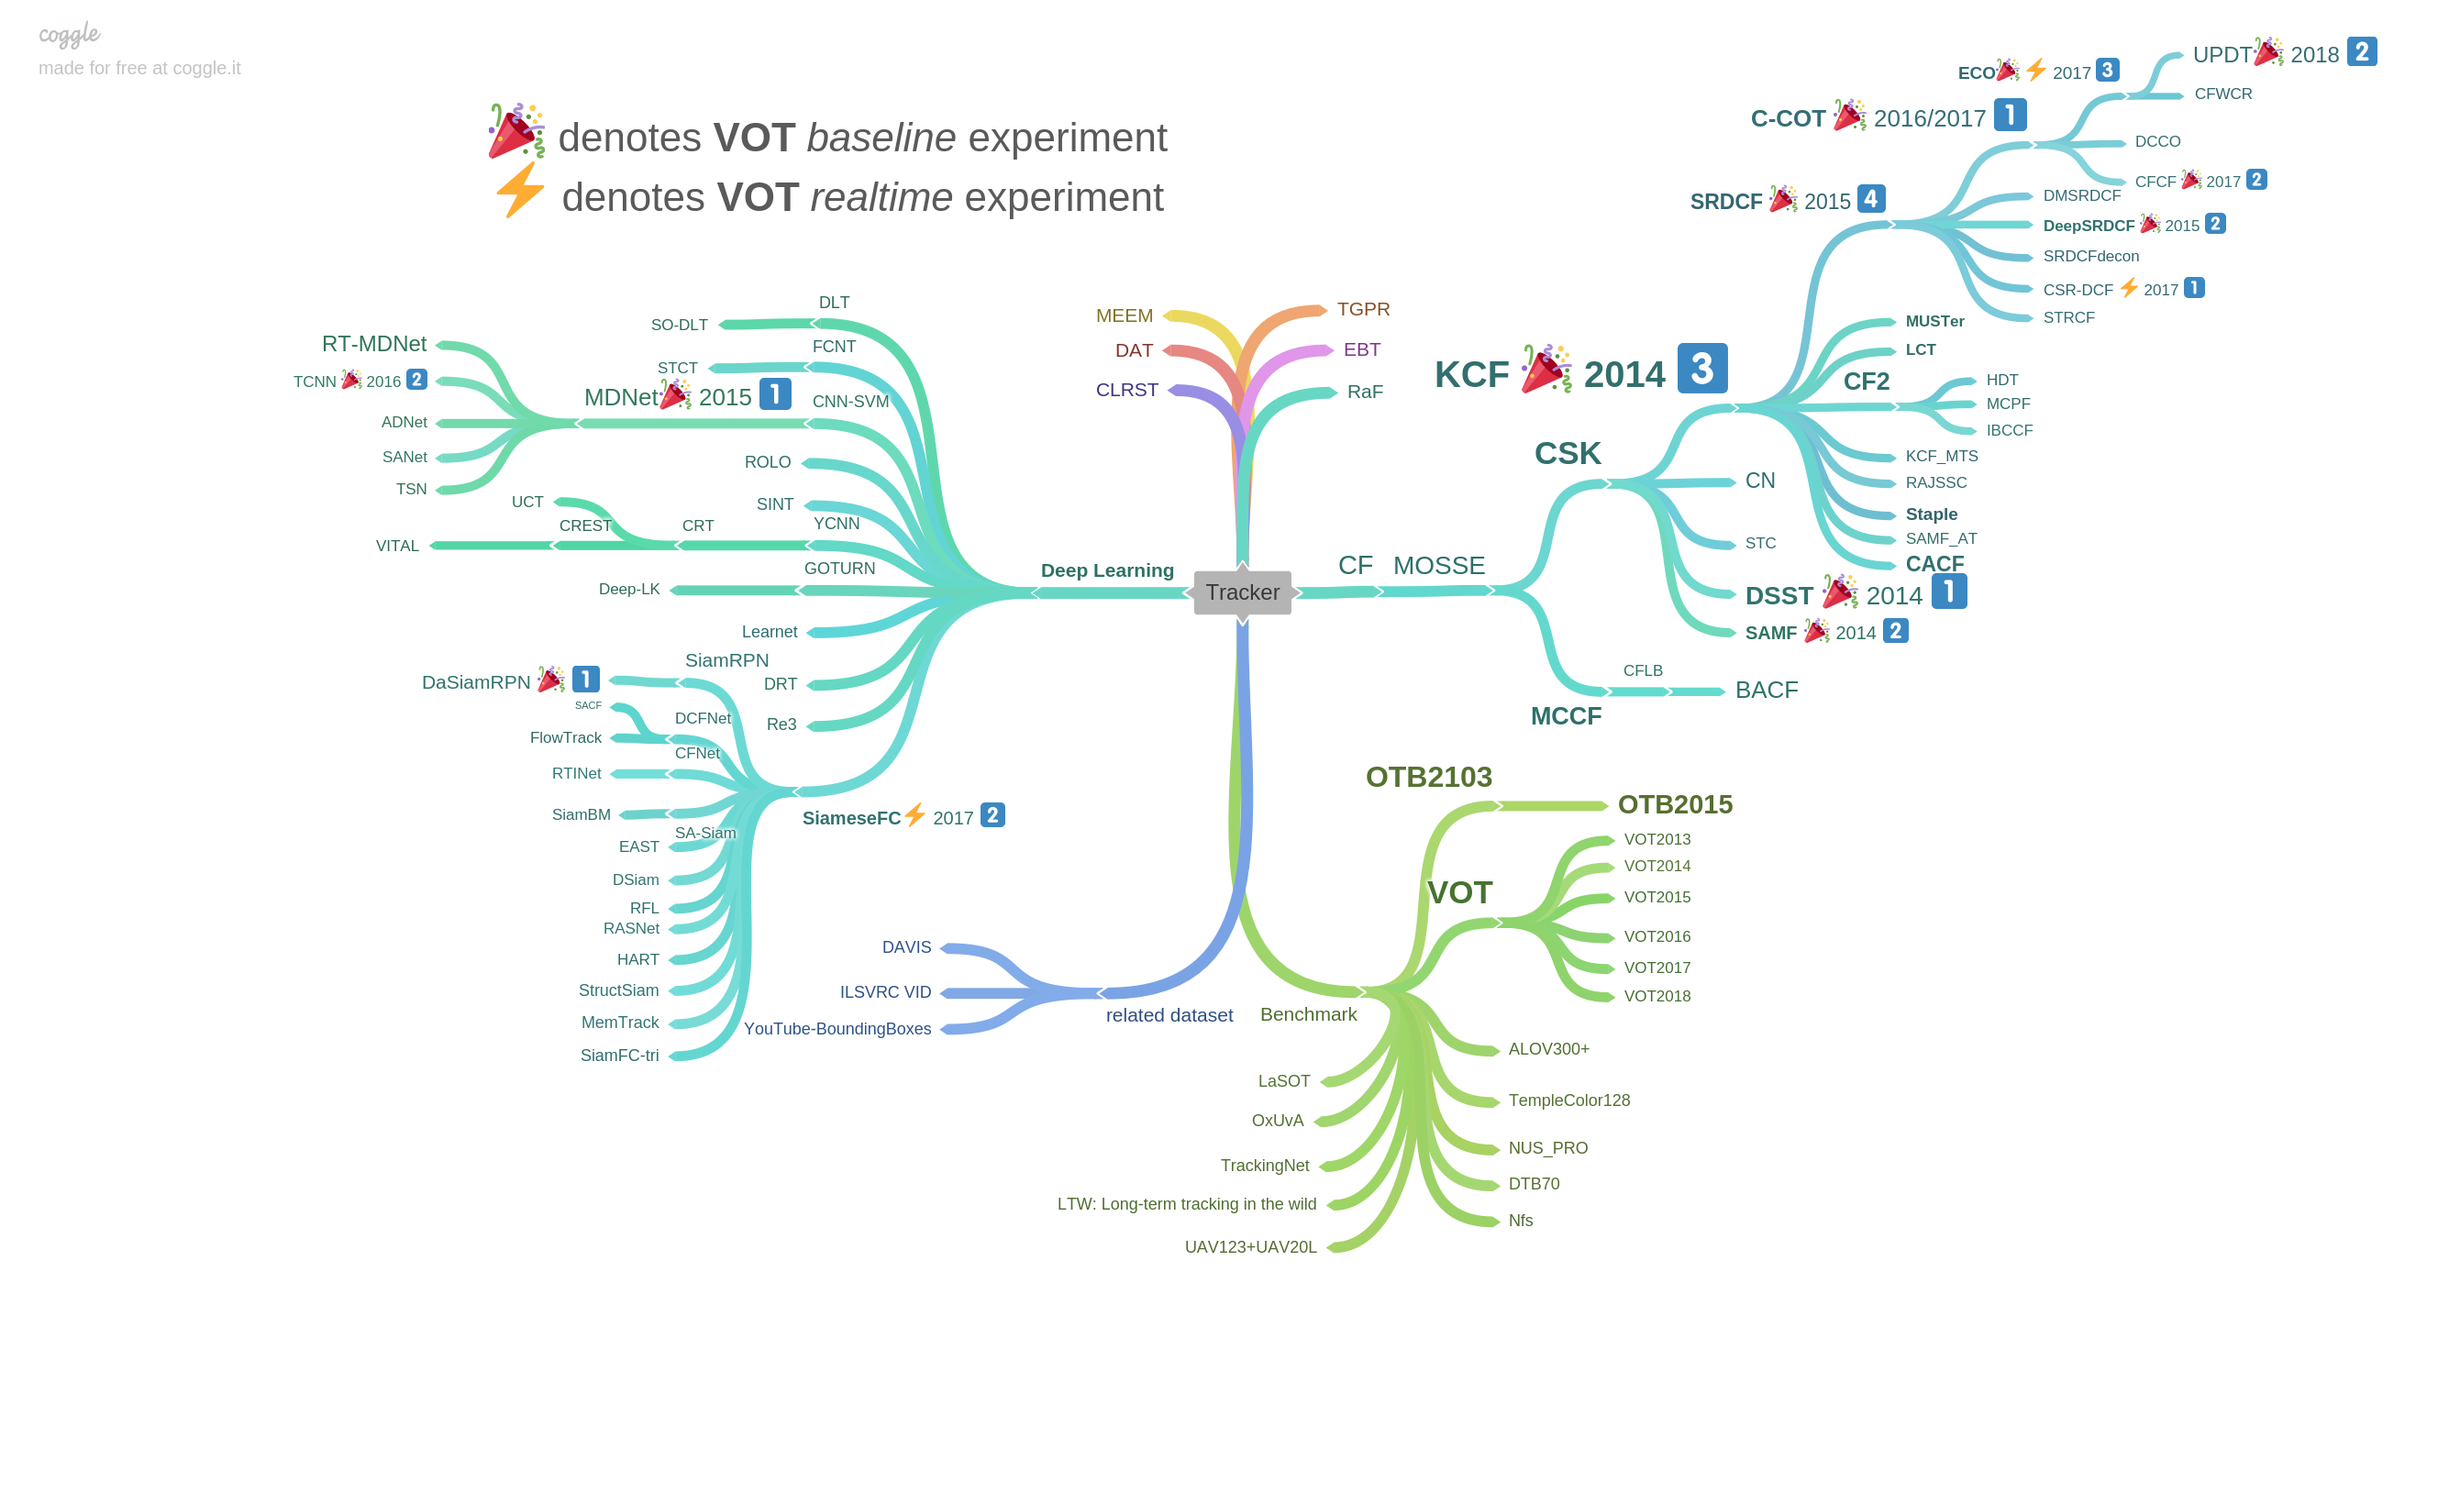
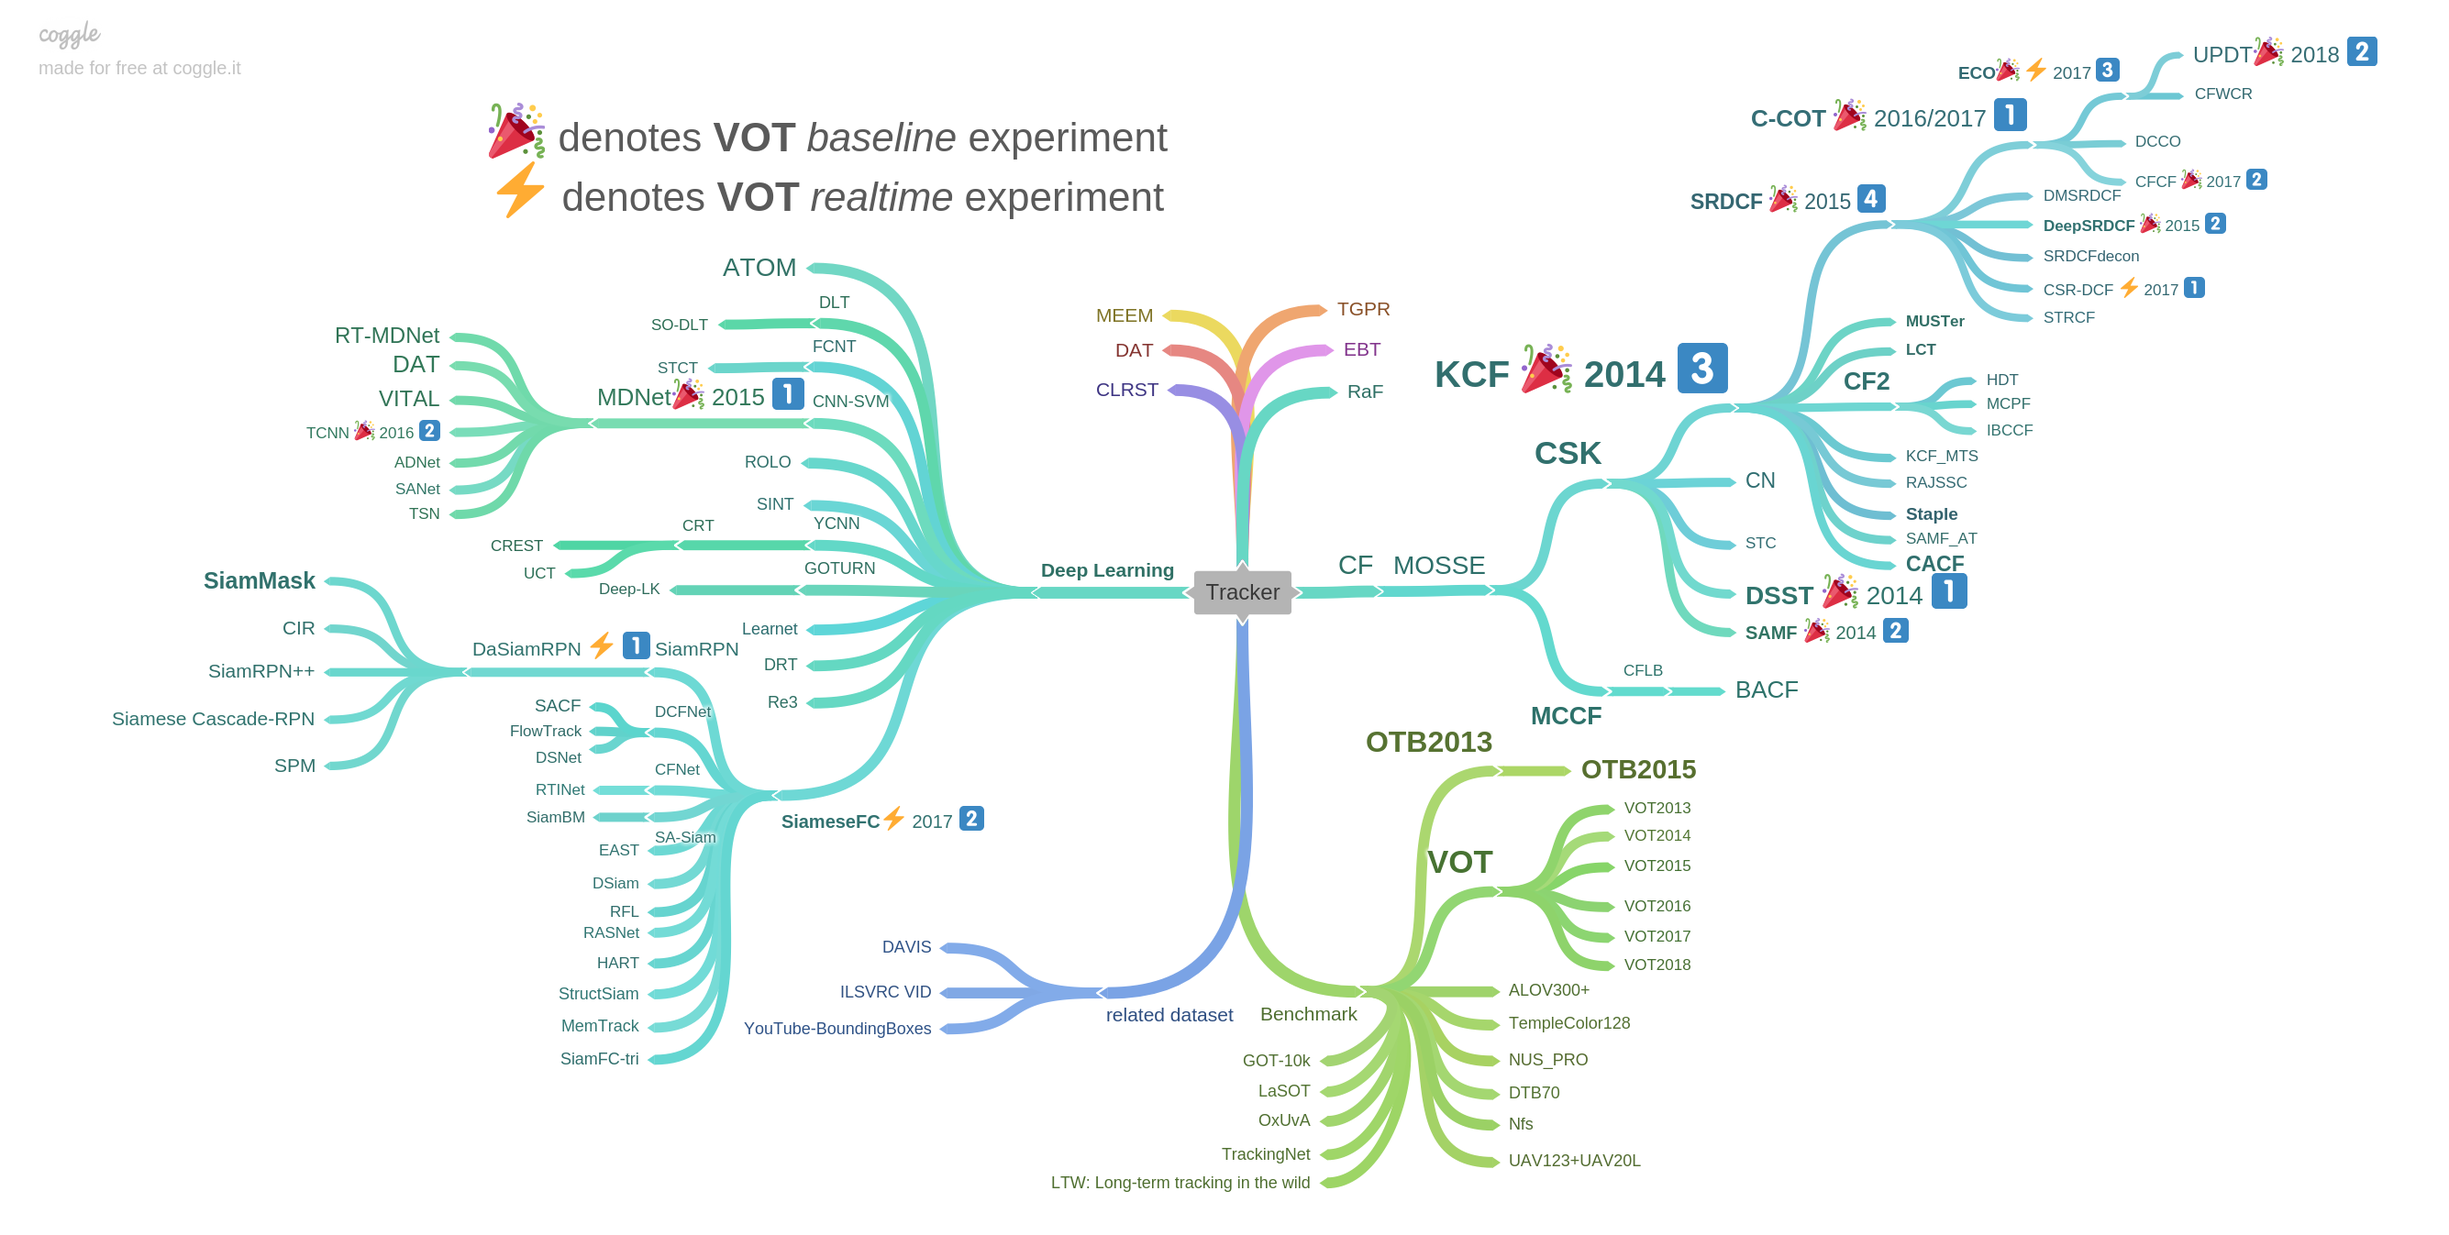
CVPR2019 preview for Siamese Trackers

Changed region(s): [[0.0622, 0.0312, 0.9637, 0.9666], [0.0, 0.0312, 0.0933, 0.0624]]

diff --git a/README.md b/README.md
@@ -78,6 +78,39 @@
 
 ## Visual Trackers
 
+### CVPR2019
+
+* **SiamMask:** Qiang Wang, Li Zhang, Luca Bertinetto, Weiming Hu, Philip H.S. Torr.<br />
+  "Fast Online Object Tracking and Segmentation: A Unifying Approach." CVPR (2019). 
+  [[paper](https://arxiv.org/pdf/1812.05050.pdf)]
+  [[project](http://www.robots.ox.ac.uk/~qwang/SiamMask/)]
+
+* **CIR:** Zhipeng Zhang, Houwen Peng.<br />
+  "Deeper and Wider Siamese Networks for Real-Time Visual Tracking." CVPR (2019). 
+  [[paper](https://arxiv.org/pdf/1901.01660.pdf)]
+  [[code](https://gitlab.com/MSRA_NLPR/deeper_wider_siamese_trackers)]
+
+* **SiamRPN++:** Bo Li, Wei Wu, Qiang Wang, Fangyi Zhang, Junliang Xing, Junjie Yan.<br />
+  "SiamRPN++: Evolution of Siamese Visual Tracking with Very Deep Networks." CVPR (2019). 
+  [[paper](https://arxiv.org/pdf/1812.11703.pdf)]
+  [[project](http://bo-li.info/SiamRPN++/)]
+
+* **C-RPN:** Heng Fan, Haibin Ling.<br />
+  "Siamese Cascaded Region Proposal Networks for Real-Time Visual Tracking." CVPR (2019). 
+  [[paper](https://arxiv.org/pdf/1812.06148.pdf)]
+
+* **LaSOT:** Heng Fan, Liting Lin, Fan Yang, Peng Chu, Ge Deng, Sijia Yu, Hexin Bai, Yong Xu, Chunyuan Liao, Haibin Ling.<br />
+  "LaSOT: A High-quality Benchmark for Large-scale Single Object Tracking." CVPR (2019). 
+  [[paper](https://arxiv.org/pdf/1809.07845.pdf)]
+  [[project](https://cis.temple.edu/lasot/)]
+
+### AAAI2019
+
+* **LDES:** Yang Li, Jianke Zhu, Steven C.H. Hoi, Wenjie Song, Zhefeng Wang, Hantang Liu.<br />
+  "Robust Estimation of Similarity Transformation for Visual Object Tracking." AAAI (2019). 
+  [[paper](https://arxiv.org/pdf/1712.05231.pdf)]
+  [[code](https://github.com/ihpdep/LDES)] 
+
 ### NIPS2018
 
 * **DAT:** Shi Pu, Yibing Song, Chao Ma, Honggang Zhang, Ming-Hsuan Yang.<br />
